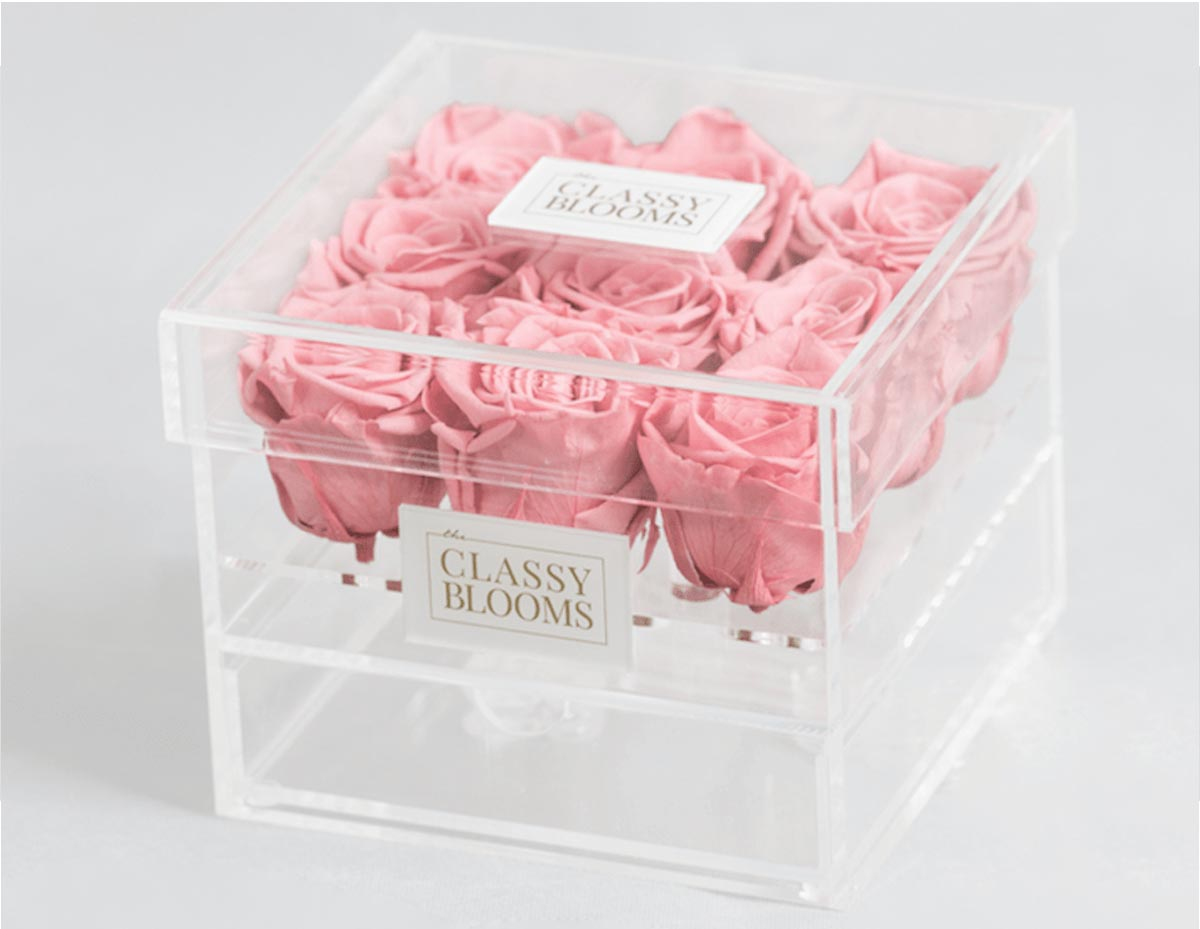
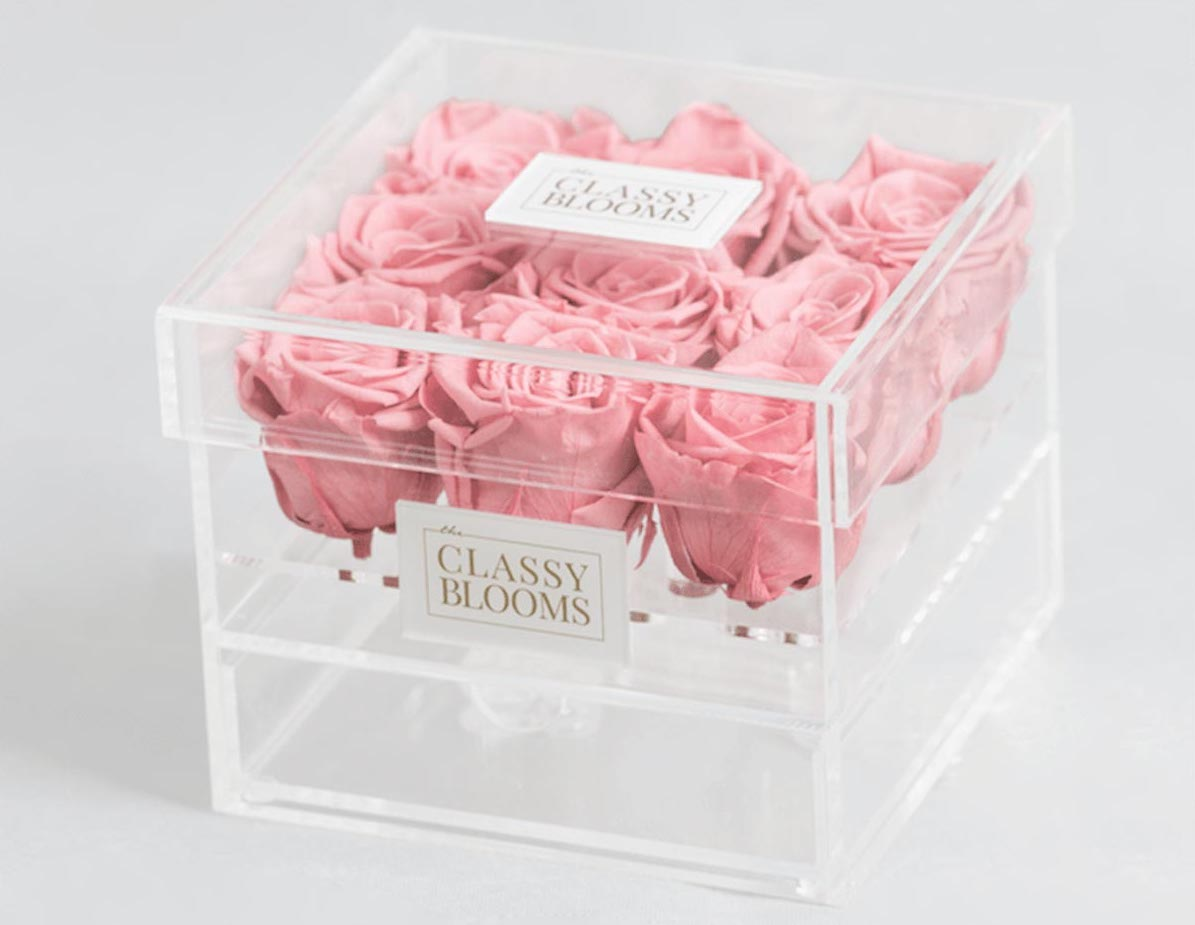
Updated Projects

diff --git a/work/theclassyblooms.html b/work/theclassyblooms.html
@@ -51,7 +51,7 @@
 				<div class="DetailedProject">
 					
 					<div class="coverImg">
-						<img src="../img/work/theclassyblooms/classybloomscover.jpg">
+						<img src="../img/work/theclassyblooms/classybloomscover_2.jpg">
 					</div>
 					
 					<div class="DetailedProjectLimitedWidth">
@@ -60,7 +60,7 @@
 							<h1>The Classy Blooms<br><img src="../img/MainElements/end-flourishes.png"></h1>
 						</div>
 
-						<p class="center">SARA ONSI IS A HIGH-END EGYPTIAN FASHION BRAND.<br>TAKING PRIDE IN REFINED CRAFTSMANSHIP, AIMING TO GARNER PRAISE IN TIMELESS AND MODERN ELEGANCE.<br>The brief was to design a logo and brand identity. A direction that is elegant and feminine appealing to the post-modern woman of today.</p>
+						<p class="center">THE CLASSY BLOOMS ETERNAL ROSES ARE GENUINE<br>ROSES THAT CAN LAST FOR UP TO TWO YEARS.<br>The brief was to design a logo and brand identity. A direction that<br>is contemporary and fragrant reflecting the nature of the brand.</p>
 						
 						<img class="DetailedProjectImg" src="../img/work/theclassyblooms/classybloomsproduct_2.jpg">
 						
